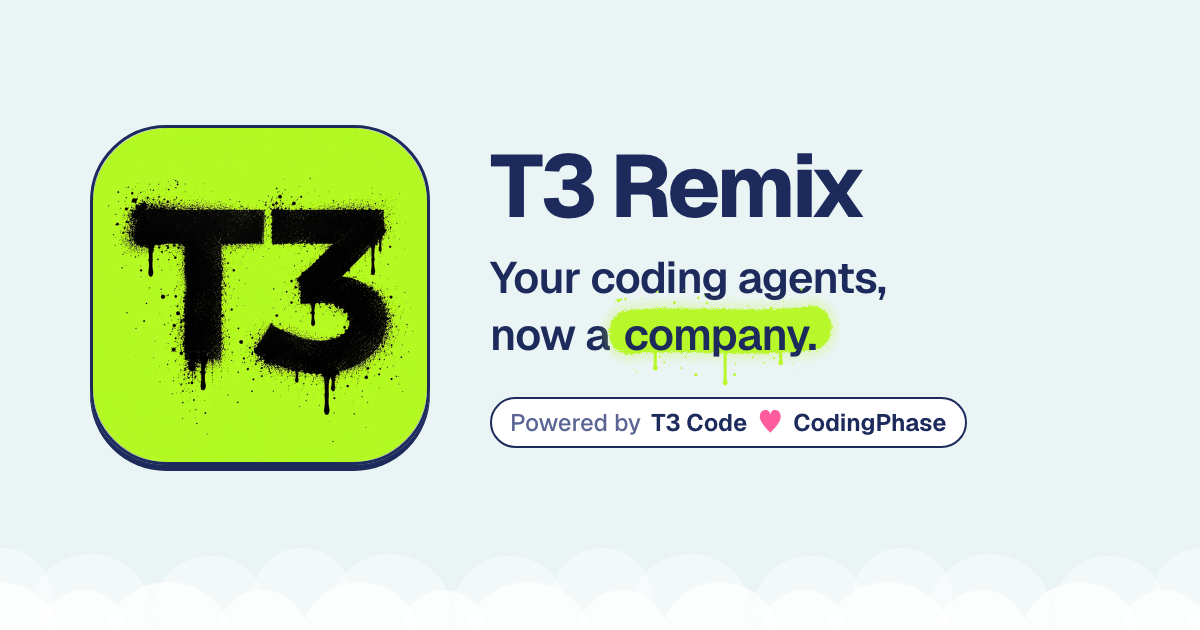
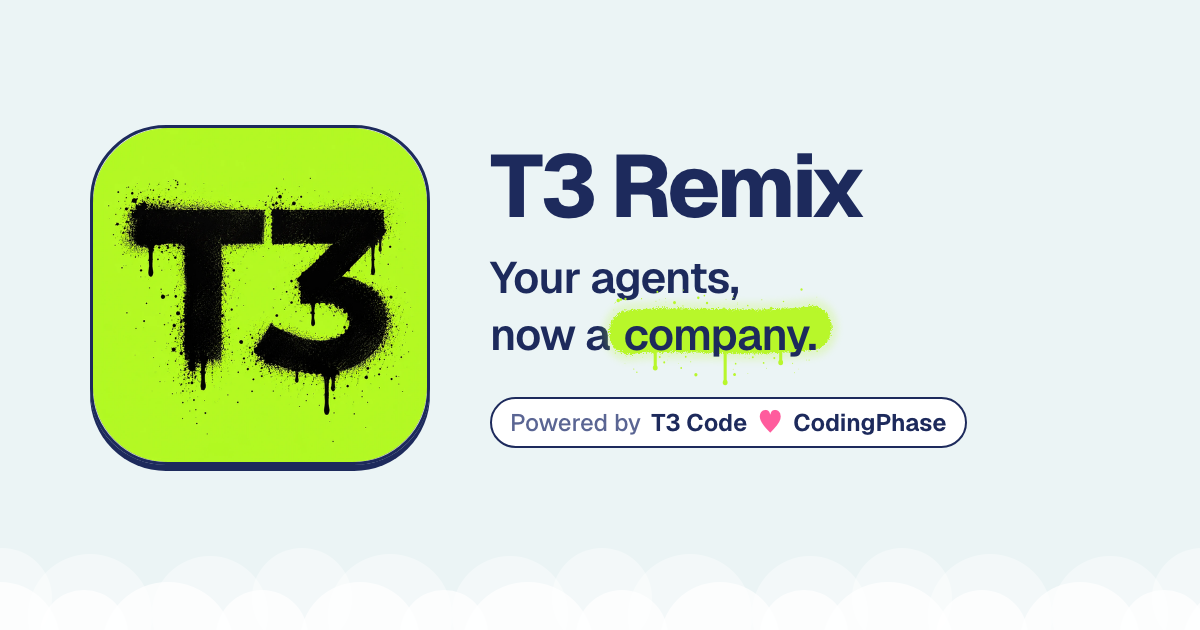
feat: speak to all agents in the homepage tagline
T3 Remix runs agents for any kind of work, not only coding, so the hero,
page title, description and share image now say "your agents".

Changed region(s): [[0.4933, 0.4222, 0.74, 0.4825]]

diff --git a/src/lib/site.ts b/src/lib/site.ts
@@ -1,7 +1,7 @@
 export const site = {
   name: "T3 Remix",
   description:
-    "T3 Remix is an open-source fork of T3 Code that turns your coding agents into a company: a CEO, an org chart, and a board where agents plan, build, review, and ship your tasks.",
+    "T3 Remix is an open-source fork of T3 Code that turns your agents into a company: a CEO, an org chart, and a board where agents plan, build, review, and ship your tasks.",
   repo: "https://github.com/codingphasedotcom/t3-remix",
   websiteRepo: "https://github.com/codingphasedotcom/t3-remix-website",
   releases: "https://github.com/codingphasedotcom/t3-remix/releases/latest",
